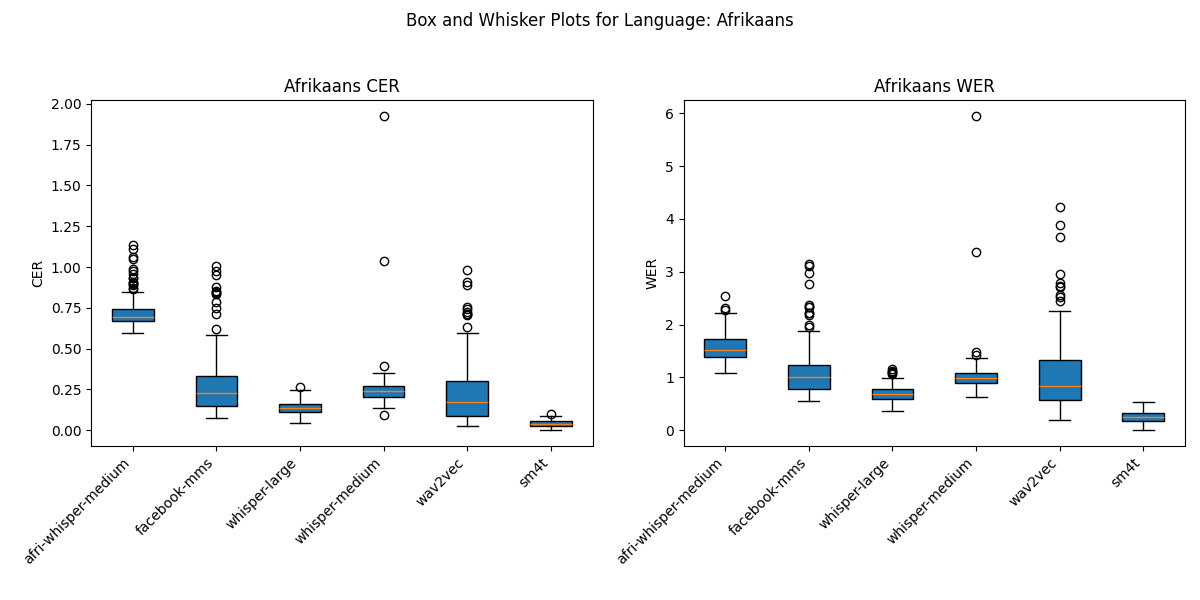
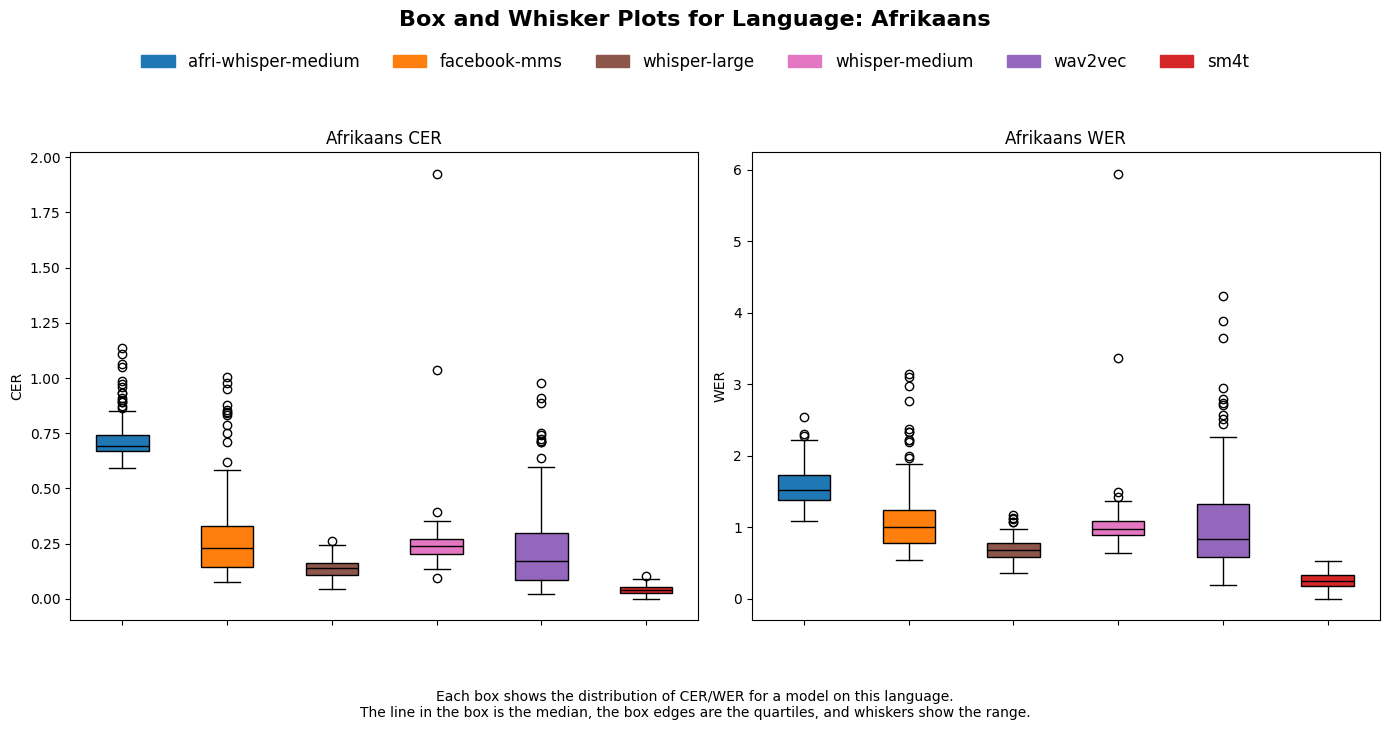
feat: add boxplot visualizations for Afrikaans, Xhosa, and Zulu; remove outdated scatter plot images

diff --git a/post-refinement-runs/graph_maker.py b/post-refinement-runs/graph_maker.py
@@ -2,6 +2,8 @@ import os
 import glob
 import csv
 import matplotlib.pyplot as plt
+import matplotlib.patches as mpatches
+
 
 def parse_filename(filename):
     # Assumes filename format: language_model_refinement_timestamp.csv
@@ -14,46 +16,127 @@ def parse_filename(filename):
     refinement = parts[2]
     return language, model, refinement
 
+
 def read_csv_data(filepath):
-    batches = []
     cers = []
     wers = []
     with open(filepath, newline="") as f:
         reader = csv.DictReader(f)
         for row in reader:
-            batches.append(int(row["Batch"]))
             cers.append(float(row["CER"]))
             wers.append(float(row["WER"]))
-    return batches, cers, wers
+    return cers, wers
+
+
+def get_language_code(language):
+    language_codes = {
+        "afr": "Afrikaans",
+        "xho": "Xhosa",
+        "zul": "Zulu",
+    }
+    return language_codes.get(language.lower(), None)
+
 
 def main():
     csv_files = glob.glob("*.csv")
-    model_groups = {}
+    language_groups = {}
+    all_models = set()
 
+    # First pass: collect all models
     for csv_file in csv_files:
         parsed = parse_filename(csv_file)
         if not parsed:
             continue
-        _, model, _ = parsed
-        if model not in model_groups:
-            model_groups[model] = []
-        model_groups[model].append(csv_file)
+        language, model, _ = parsed
+        all_models.add(model)
+        if language not in language_groups:
+            language_groups[language] = []
+        language_groups[language].append((csv_file, model))
 
-    for model, files in model_groups.items():
-        plt.figure(figsize=(10, 6))
-        for csv_file in files:
-            batches, cers, wers = read_csv_data(csv_file)
-            label = os.path.splitext(os.path.basename(csv_file))[0]
-            plt.scatter(batches, cers, label=f"{label} CER", marker="o")
-            plt.scatter(batches, wers, label=f"{label} WER", marker="x")
-        plt.title(f"Scatter Plot for Model: {model}")
-        plt.xlabel("Batch")
-        plt.ylabel("Error Rate")
-        plt.legend()
-        plt.grid(True)
-        plt.tight_layout()
-        plt.savefig(f"{model}_scatter_plot.png")
+    # Assign a persistent color to each model
+    color_map = plt.get_cmap("tab10")
+    model_list = sorted(all_models)
+    model_to_color = {model: color_map(i % 10) for i, model in enumerate(model_list)}
+
+    for language, files in language_groups.items():
+        fig, (ax1, ax2) = plt.subplots(1, 2, figsize=(14, 7))
+        cer_data = []
+        wer_data = []
+        labels = []
+        colors = []
+
+        for csv_file, model in files:
+            cers, wers = read_csv_data(csv_file)
+            cer_data.append(cers)
+            wer_data.append(wers)
+            labels.append(model)
+            colors.append(model_to_color[model])
+
+        # Boxplot for CER
+        box1 = ax1.boxplot(cer_data, patch_artist=True)
+        for patch, color in zip(box1["boxes"], colors):
+            patch.set_facecolor(color)
+        for median in box1["medians"]:
+            median.set_color("black")
+        ax1.set_title(f"{get_language_code(language)} CER")
+        ax1.set_ylabel("CER")
+        ax1.set_xticklabels([])
+
+        # Boxplot for WER
+        box2 = ax2.boxplot(wer_data, patch_artist=True)
+        for patch, color in zip(box2["boxes"], colors):
+            patch.set_facecolor(color)
+        for median in box2["medians"]:
+            median.set_color("black")
+        ax2.set_title(f"{get_language_code(language)} WER")
+        ax2.set_ylabel("WER")
+        ax2.set_xticklabels([])
+
+        # Add additional content for readability
+        fig.suptitle(
+            f"Box and Whisker Plots for Language: {get_language_code(language)}",
+            fontsize=16,
+            fontweight="bold",
+            y=1.02,
+        )
+
+        # Add legend below the title, persistent colors
+        # Add legend below the title, only for models present in this plot
+        models_in_plot = [model for _, model in files]
+        unique_models_in_plot = []
+        [
+            unique_models_in_plot.append(m)
+            for m in models_in_plot
+            if m not in unique_models_in_plot
+        ]
+        legend_patches = [
+            mpatches.Patch(color=model_to_color[model], label=model)
+            for model in unique_models_in_plot
+        ]
+        fig.legend(
+            handles=legend_patches,
+            loc="upper center",
+            bbox_to_anchor=(0.5, 0.98),
+            ncol=len(unique_models_in_plot),
+            fontsize=12,
+            frameon=False,
+        )
+
+        fig.text(
+            0.5,
+            0.01,
+            "Each box shows the distribution of CER/WER for a model on this language.\n"
+            "The line in the box is the median, the box edges are the quartiles, and whiskers show the range.",
+            ha="center",
+            fontsize=10,
+        )
+        fig.tight_layout(
+            rect=[0, 0.12, 1, 0.92]
+        )  # Adjust top and bottom margins for legend/title
+
+        plt.savefig(f"{language}_boxplot.png", bbox_inches="tight")
         plt.close()
+
 
 if __name__ == "__main__":
     main()

diff --git a/pre-refinement-runs/graph_maker.py b/pre-refinement-runs/graph_maker.py
@@ -2,6 +2,7 @@ import os
 import glob
 import csv
 import matplotlib.pyplot as plt
+import matplotlib.patches as mpatches
 
 
 def parse_filename(filename):
@@ -39,48 +40,101 @@ def get_language_code(language):
 def main():
     csv_files = glob.glob("*.csv")
     language_groups = {}
+    all_models = set()
 
+    # First pass: collect all models
     for csv_file in csv_files:
         parsed = parse_filename(csv_file)
         if not parsed:
             continue
-        language, model, _ = parsed  # Get model name here
+        language, model, _ = parsed
+        all_models.add(model)
         if language not in language_groups:
             language_groups[language] = []
-        language_groups[language].append(
-            (csv_file, model)
-        )  # Store tuple of file and model
+        language_groups[language].append((csv_file, model))
+
+    # Assign a persistent color to each model
+    color_map = plt.get_cmap("tab10")
+    model_list = sorted(all_models)
+    model_to_color = {model: color_map(i % 10) for i, model in enumerate(model_list)}
 
     for language, files in language_groups.items():
-        plt.figure(figsize=(12, 6))
+        fig, (ax1, ax2) = plt.subplots(1, 2, figsize=(14, 7))
         cer_data = []
         wer_data = []
         labels = []
+        colors = []
+
         for csv_file, model in files:
             cers, wers = read_csv_data(csv_file)
             cer_data.append(cers)
             wer_data.append(wers)
-            labels.append(model)  # Use model name as label
+            labels.append(model)
+            colors.append(model_to_color[model])
 
         # Boxplot for CER
-        plt.subplot(1, 2, 1)
-        plt.boxplot(cer_data, labels=labels, patch_artist=True)
-        plt.title(f"{get_language_code(language)} CER")
-        plt.ylabel("CER")
-        plt.xticks(rotation=45, ha="right")
+        box1 = ax1.boxplot(cer_data, patch_artist=True)
+        for patch, color in zip(box1["boxes"], colors):
+            patch.set_facecolor(color)
+        for median in box1["medians"]:
+            median.set_color("black")
+        ax1.set_title(f"{get_language_code(language)} CER")
+        ax1.set_ylabel("CER")
+        ax1.set_xticklabels([])
 
         # Boxplot for WER
-        plt.subplot(1, 2, 2)
-        plt.boxplot(wer_data, labels=labels, patch_artist=True)
-        plt.title(f"{get_language_code(language)} WER")
-        plt.ylabel("WER")
-        plt.xticks(rotation=45, ha="right")
+        box2 = ax2.boxplot(wer_data, patch_artist=True)
+        for patch, color in zip(box2["boxes"], colors):
+            patch.set_facecolor(color)
+        for median in box2["medians"]:
+            median.set_color("black")
+        ax2.set_title(f"{get_language_code(language)} WER")
+        ax2.set_ylabel("WER")
+        ax2.set_xticklabels([])
 
-        plt.suptitle(
-            f"Box and Whisker Plots for Language: {get_language_code(language)}"
+        # Add additional content for readability
+        fig.suptitle(
+            f"Box and Whisker Plots for Language: {get_language_code(language)}",
+            fontsize=16,
+            fontweight="bold",
+            y=1.02,
         )
-        plt.tight_layout(rect=[0, 0.03, 1, 0.95])
-        plt.savefig(f"{language}_boxplot.png")
+
+        # Add legend below the title, persistent colors
+        # Add legend below the title, only for models present in this plot
+        models_in_plot = [model for _, model in files]
+        unique_models_in_plot = []
+        [
+            unique_models_in_plot.append(m)
+            for m in models_in_plot
+            if m not in unique_models_in_plot
+        ]
+        legend_patches = [
+            mpatches.Patch(color=model_to_color[model], label=model)
+            for model in unique_models_in_plot
+        ]
+        fig.legend(
+            handles=legend_patches,
+            loc="upper center",
+            bbox_to_anchor=(0.5, 0.98),
+            ncol=len(unique_models_in_plot),
+            fontsize=12,
+            frameon=False,
+        )
+
+        fig.text(
+            0.5,
+            0.01,
+            "Each box shows the distribution of CER/WER for a model on this language.\n"
+            "The line in the box is the median, the box edges are the quartiles, and whiskers show the range.",
+            ha="center",
+            fontsize=10,
+        )
+        fig.tight_layout(
+            rect=[0, 0.12, 1, 0.92]
+        )  # Adjust top and bottom margins for legend/title
+
+        plt.savefig(f"{language}_boxplot.png", bbox_inches="tight")
         plt.close()
 
 
